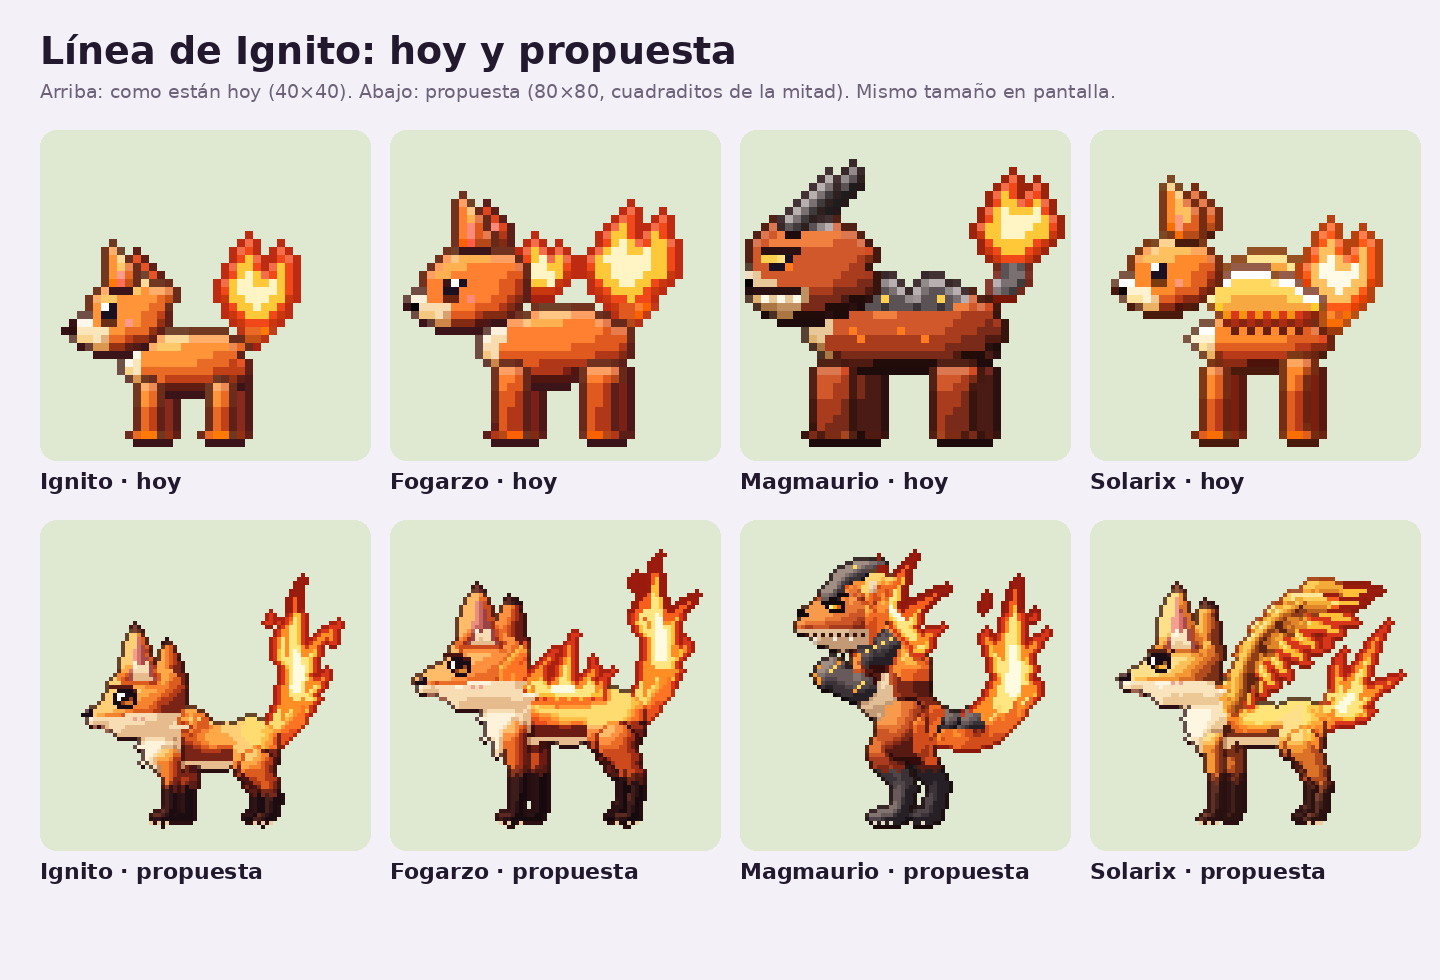
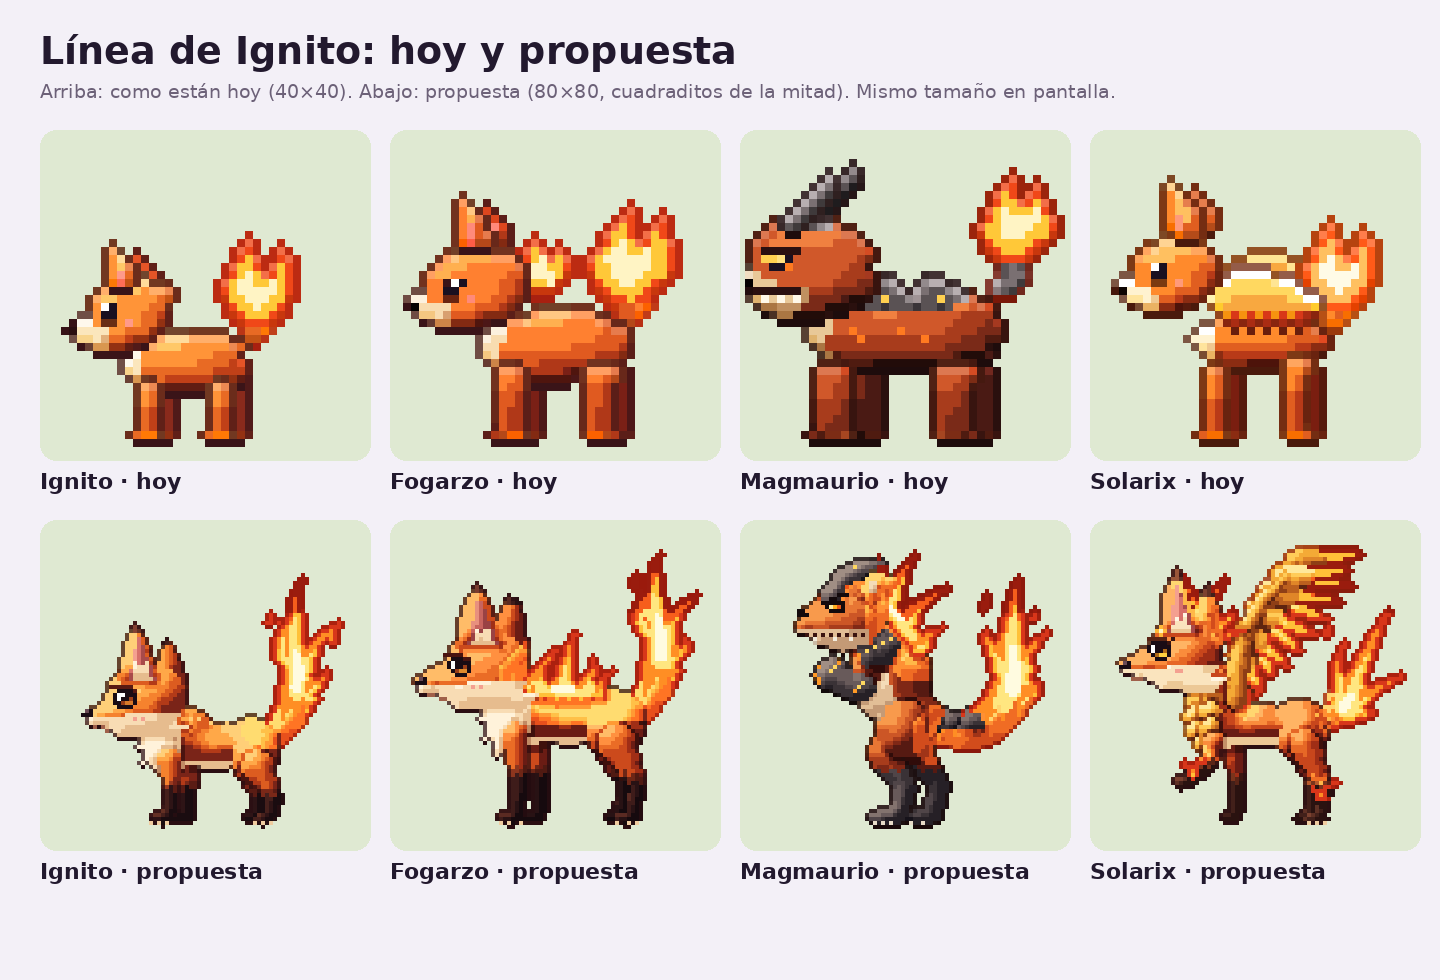
Estudio: Solarix más majestuoso (alas grandes, corona de fuego, pechera dorada)
Claude-Session: https://claude.ai/code/session_01CbjX1Jp4CqY9crVcrZtYX4

Changed region(s): [[0.75, 0.551, 0.9688, 0.8571]]

diff --git a/estudio/solarix/solarix.py b/estudio/solarix/solarix.py
@@ -8,13 +8,13 @@ import numpy as np
 from motor import Lienzo, args
 
 RAMP = {
-    'fur':   ['#4a1c10', '#7a3016', '#b24c1e', '#dc7228', '#f49836', '#ffc058', '#ffe08a'],
+    'fur':   ['#3e100c', '#6a1c14', '#a02e16', '#c8461c', '#e66826', '#fa8c3c', '#ffb464'],
     'cream': ['#8a5e46', '#c49068', '#ecc896', '#fae4be', '#fff6e2'],
     'sock':  ['#2a1210', '#42201a', '#5e3024', '#7c4230', '#9a5638'],
     'flame': ['#9a1c0e', '#d8361a', '#f65e1c', '#ff8e24', '#ffc038', '#ffe680', '#fffbe0'],
     'gold':  ['#5e2410', '#8e3e16', '#bc601e', '#e08628', '#f4aa36', '#ffcc58', '#ffe89a'],
     'pink':  ['#a84a4a', '#d8706a', '#f4a090'],
-    'fur2':  ['#7a2c16', '#b4461a', '#e8681e', '#ff8a28', '#ffaa38', '#ffcc50', '#ffe478'],
+    'fur2':  ['#6a2014', '#a03418', '#d24c1c', '#f06c24', '#ff9034', '#ffb848', '#ffd670'],
     'furd':  ['#3a1610', '#5a2416', '#7a341c', '#9a4624', '#b85a2c'],
 }
 MID = {'fur': 4, 'cream': 3.9, 'sock': 2, 'gold': 3.8, 'fur2': 4, 'furd': 3, 'pink': 1}
@@ -28,7 +28,7 @@ def socks(top):
     return f
 
 
-EDGE = [(36, 40), (38, 31), (42, 22.5), (48.5, 16), (56, 12.5)]   # borde delantero del ala (hombro -> muñeca -> punta)
+EDGE = [(36, 39), (37, 29), (40, 19.5), (45, 11), (52, 5)]   # borde delantero del ala (hombro -> muñeca -> punta)
 
 
 def edge_at(u):
@@ -38,7 +38,7 @@ def edge_at(u):
 
 
 # plumas: (posición en el borde 0..1, ángulo hacia atrás en grados: 90 = hacia abajo, 0 = hacia atrás, largo)
-FEATHERS = [(0.2, 74, 10), (0.4, 56, 13.5), (0.6, 38, 16.5), (0.8, 20, 19), (1.0, 2, 19)]
+FEATHERS = [(0.15, 80, 10), (0.32, 63, 13), (0.5, 45, 16.5), (0.67, 28, 19), (0.84, 12, 21), (1.0, -4, 19)]
 
 
 def wing_parts(c, P, dx=0, dy=0, dark=0.0, far=False):
@@ -60,27 +60,36 @@ def wing_parts(c, P, dx=0, dy=0, dark=0.0, far=False):
             return m
         fin = c.caps(pts[2:], [max(0.6, v * 0.45) for v in rr[2:]])
         c.parte(fm, fmat, R=2.5, bias=-dark + (0.07 if i % 2 else -0.05), outline='#8a1c0c', far=far, fire=(fin, Z))
-    cov = c.caps([(x + dx, y + dy) for x, y in EDGE], [2.6, 2.4, 2.0, 1.5, 0.9])
+    cov = c.caps([(x + dx, y + dy) for x, y in EDGE], [2.8, 2.6, 2.2, 1.6, 0.9])
     c.parte(cov, 'gold', R=3, bias=-0.1 - dark, outline='#6a2410', far=far)
 
 
 def build(P):
-    c = Lienzo(RAMP, P, S=0.87, OX=30, mid=MID, span=SPAN, lit={'fur': 'fur2', 'fur2': 'fur2', 'furd': 'furd'})
+    c = Lienzo(RAMP, P, S=0.87, OX=31, mid=MID, span=SPAN, lit={'fur': 'fur2', 'fur2': 'fur2', 'furd': 'furd'}, glow_rad={'flame': (3, 10)})
+    Z = np.zeros((80, 80), bool)
+
+    def anklet(x, y, i, far=False):
+        """llamitas en el tobillo: pisa sobre fuego"""
+        T = [(x - 0.8, y, 3, -0.4, 0.1, 0.9), (x + 0.6, y - 0.3, 3.8, 0.25, 0.15, 1.0)]
+        m, inn, _ = c.fuego(c.ell(x, y + 0.5, 1.6, 0.9), T)
+        c.parte(m, 'flame', R=2, outline='#9a1a0c', far=far, fire=(inn, Z), bias=-0.2 if far else 0)
+
     # ---- patas lejanas (largas y finas) ----
     c.parte(c.caps([(53, 50), (56, 58), (58.5, 63), (57, 71)], [3.8, 2.4, 1.5, 1.4]) | c.ell(55.8, 72.9, 2.7, 1.4), socks(64), R=3, bias=-0.3, far=True)
     c.parte(c.caps([(35, 50), (36, 61), (36, 71)], [2.8, 1.8, 1.5]) | c.ell(34.6, 72.9, 2.6, 1.4), socks(63), R=3, bias=-0.3, far=True)
-    # ---- ala lejana: asoma detrás, un poco más arriba y más oscura ----
-    c.local(rot=-P['wing'] * 0.18, piv=(37, 41))
-    wing_parts(c, P, dx=4, dy=-3, dark=0.28, far=True)
+    
+    # ---- ala lejana: más arriba y atrás, así se ven las dos ----
+    c.local(rot=-P['wing'] * 0.2, piv=(38, 39))
+    wing_parts(c, P, dx=3.5, dy=-4.5, dark=0.45, far=True)
     c.local()
-    # ---- cola de fénix: base corta de pelo y tres grandes plumas de fuego que flamean hacia atrás ----
+    # ---- cola de fénix ----
     c.local(rot=P['tail'], piv=(58, 45))
     SPINE = [(58, 45), (62.5, 44), (66, 42)]
     tail = c.caps(SPINE, [2.6, 3.6, 4.2]) | c.ell(67, 41, 4.4, 4)
-    TONG = [(67, 40, 24, 0.45, 0.10, 3.6), (68.5, 42, 15, 0.9, 0.06, 3.0), (68, 44, 10, 1.3, 0.0, 2.3),
-            (65, 39.5, 14, 0.05, 0.12, 2.4)]
+    TONG = [(67, 40, 26, 0.38, 0.12, 3.8), (68.5, 42, 15, 0.9, 0.06, 3.0), (68, 44, 10, 1.3, 0.0, 2.3),
+            (65, 39.5, 16, 0.02, 0.14, 2.6)]
     tail, inner, core = c.fuego(tail, TONG, inner_base=c.ell(67, 41.5, 3, 2.6),
-                                core=c.caps([(66.5, 41.5), (69, 38)], [1.6, 1.0]), wisps=[(74, 9, 1.0), (62, 22, 1.0)])
+                                core=c.caps([(66.5, 41.5), (69, 38)], [1.6, 1.0]), wisps=[(62, 20, 1.0)])
 
     def tail_mat(X, Y):
         m = np.full(X.shape, 'fur', object)
@@ -88,26 +97,42 @@ def build(P):
         m[k > edge - 3] = 'fur2'; m[k > edge] = 'flame'
         return m
     c.parte(tail, tail_mat, R=5, outline='#9a1a0c', fire=(inner, core))
-    # ---- oreja lejana ----
-    c.local(dy=P['head'])
-    c.parte(c.poly([(24, 27), (24.6, 20.5), (26, 14.5), (27.6, 10.8), (29.2, 12.6), (30.8, 19), (32, 27)]),
-            lambda X, Y: np.where(Y < 13.5, 'sock', 'fur').astype(object), R=3, bias=-0.3, far=True)
-    c.local()
-    # ---- cuerpo esbelto ----
-    body = c.ell(31, 45, 8, 8.5) | c.ell(34, 40, 6, 6) | c.ell(43, 46.5, 10, 6) | c.ell(54, 46, 7.5, 7)
+    # ---- cuerpo esbelto, cuello alto ----
+    body = c.ell(31, 45, 8, 8.5) | c.ell(32, 37, 6, 8) | c.ell(43, 46.5, 10, 6) | c.ell(54, 46, 7.5, 7)
     c.parte(body, lambda X, Y: np.where((Y > 50) & (X < 51), 'cream', 'fur').astype(object), R=8)
-    c.parte(c.ell(27.5, 45, 5.5, 8) | c.poly([(25, 39), (21, 45), (24.5, 45.5), (22.5, 50), (26, 49), (26.5, 54), (30, 50.5), (30.5, 40)]),
-            'cream', R=5, bias=0.05, soft=True)
+    # pechera de plumas doradas, en escamas
+    ruff = Z.copy()
+    for (x, y, r) in [(27, 36, 3.2), (25.5, 40, 3.4), (24.5, 44, 3.4), (25, 48, 3.2), (26.5, 51.5, 2.8),
+                      (29, 38, 3), (28.5, 42.5, 3.2), (28.5, 47, 3)]:
+        c.parte(c.ell(x, y, r, r * 0.9), 'gold', R=3, bias=0.08, outline='#7a3a14')
+    # (cada pluma es su propia pieza: el contorno interior dibuja las escamas)
     c.parte(c.ell(55, 49.5, 6.5, 7.5, 0.3), 'fur', R=6, bias=0.03, soft=True)
-    # ---- patas cercanas ----
+    # ---- patas cercanas: la trasera firme, la delantera levantada con elegancia ----
     c.parte(c.caps([(55.5, 52), (59, 59), (61.5, 64), (60, 71)], [4.4, 2.7, 1.7, 1.6]) | c.ell(58.6, 72.9, 3.0, 1.5), socks(65), R=3)
-    c.parte(c.caps([(29.5, 51), (30.5, 61), (30, 71)], [3.0, 2.0, 1.7]) | c.ell(28.6, 72.9, 2.9, 1.5), socks(63), R=3)
+    anklet(60.5, 67, 2)
+    c.parte(c.caps([(29.5, 51), (27.5, 58), (23, 61.5)], [3.0, 2.1, 1.8]) | c.ell(20.8, 62.2, 2.8, 1.6, -0.5),
+            socks(58.5), R=3)
+    anklet(23.5, 60.5, 3)
     # ---- ala cercana ----
-    c.local(rot=-P['wing'] * 0.18, piv=(35, 41))
+    c.local(rot=-P['wing'] * 0.2, piv=(35, 40))
     wing_parts(c, P)
     c.local()
-    # ---- cabeza fina, cuello alto ----
-    c.local(dy=P['head'])
+    # ---- corona de rayos de fuego detrás de la cabeza (es Solarix: un sol) ----
+    c.local(dy=P['head'] - 4)
+    crown = c.ell(25.5, 22, 3.5, 3.2)
+    RAYS = [(25.5, 20, 12, -0.35, 0.04, 2.0), (27.5, 21, 13, 0.25, 0.06, 2.2), (29, 23, 11, 0.85, 0.05, 1.9),
+            (29.5, 25.5, 9, 1.35, 0.0, 1.6), (23.5, 20, 9, -0.85, 0.0, 1.6)]
+    crown, cin, _ = c.fuego(crown, RAYS)
+
+    def crown_mat(X, Y):
+        m = np.full(X.shape, 'flame', object)
+        m[np.hypot(X - 25.5, Y - 22) < 4.5] = 'gold'
+        return m
+    c.parte(crown, crown_mat, R=2.5, outline='#9a1a0c', fire=(cin, Z))
+    # oreja lejana
+    c.parte(c.poly([(24, 27), (24.6, 20.5), (26, 14.5), (27.6, 10.8), (29.2, 12.6), (30.8, 19), (32, 27)]),
+            lambda X, Y: np.where(Y < 13.5, 'sock', 'fur').astype(object), R=3, bias=-0.3, far=True)
+    # cabeza fina y en alto
     cheek = c.poly([(9, 35), (14, 39.5), (21, 41), (29, 40), (33, 36.5), (28.5, 36), (31, 33), (23, 32.5)])
     head = c.ell(21, 29, 10.5, 8.8, -0.12) | c.poly([(13.5, 26.5), (3, 32.5), (3.8, 35.2), (14.5, 38)]) | cheek
     c.parte(head, lambda X, Y: np.where((Y > 34) | (cheek & (Y > 33.5)), 'cream', 'fur').astype(object), R=7, bias=0.05)
@@ -125,19 +150,21 @@ def build(P):
     c.local()
     c.render()
     # ---- detalles ----
-    c.local(dy=P['head'])
-    K = {'k': '#1a0c14', 'a': '#a05a18', 'A': '#ffb838', 'W': '#ffffff', 'l': '#3a1410'}
+    c.local(dy=P['head'] - 4)
+    K = {'k': '#1a0c14', 'a': '#b06a18', 'A': '#ffd040', 'W': '#ffffff', 'l': '#3a1410'}
     if P['blink']:
         ex, ey = c.patron(11.4, 26.6, ['', '', 'kk..kl', '.kkkk.'], K)
-    else:   # ojo elegante, con pestaña hacia atrás
+    else:   # ojo elegante, iris dorado, pestaña hacia atrás
         ex, ey = c.patron(11.4, 26.6, ['.kkkkl', 'kWkkkk', 'kWkkak', '.kaAAk', '..kkk.'], K)
     for dx in range(0, 5): c.put(ex + dx, ey - 1, '#5a2414')
     c.put(ex + 6, ey - 1, '#3a1410')
+    # marca de sol en la frente
+    c.patron(13.2, 22.6, ['.y.', 'yYy', '.y.'], {'y': '#ffb838', 'Y': '#fff4c0'})
     c.patron(2.5, 32.3, ['.nn', 'nnn'], {'n': '#1a0c14'}); c.putd(3.7, 32.3, '#6a4a54')
     for x, y in [(6, 36.5), (7.5, 37), (9, 37.4)]: c.putd(x, y, '#a0604a')
     for x, y in [(18.5, 34.3), (20, 34.3)]: c.putd(x, y, '#f4a090')
     c.local()
-    for x in (26.5, 28.8, 31, 56.5, 58.8, 61): c.putd(x, 74.5, '#f0cca0')
+    for x in (56.5, 58.8, 61): c.putd(x, 74.5, '#f0cca0')
     return c
 
 

diff --git a/estudio/motor.py b/estudio/motor.py
@@ -65,12 +65,14 @@ def distancia(m):
 
 class Lienzo:
     def __init__(self, ramps, P, S=0.82, OX=40, OY=75, outline='#2a0e12', mid=None, span=None, glow=('flame', 'lava'),
-                 lit=None):
+                 lit=None, glow_rad=None):
         self.R = ramps; self.P = P; self.S = S; self.OX = OX; self.OY = OY
         self.OUT = hexc(outline)
         self.MID = mid or {}; self.SPAN = span or {}
         self.glow = glow                      # materiales que emiten luz
         self.lit = lit or {}                  # material -> material que toma cuando lo ilumina el fuego
+        self.RAD = {'flame': (12, 49), 'lava': (0, 1.1)}
+        self.RAD.update(glow_rad or {})
         self.loc = dict(rot=0.0, piv=(0, 0), dx=0, dy=0)
         self.parts = []
 
@@ -197,7 +199,7 @@ class Lienzo:
             under = s & (pid < k) & (pid >= 0) & ~m & (mm != 'cream') & ~np.isin(mm, self.glow)
             idx[under] = np.maximum(idx[under] - 1, 0)
         # luz de lo que brilla sobre lo que está cerca: el fuego ilumina fuerte y lejos, la lava poco y cerca
-        RAD = {'flame': (12, 49), 'lava': (0, 1.1)}
+        RAD = self.RAD
         best = np.zeros((N, N), int)
         for g in self.glow:
             gy, gx = np.nonzero(mm == g)
